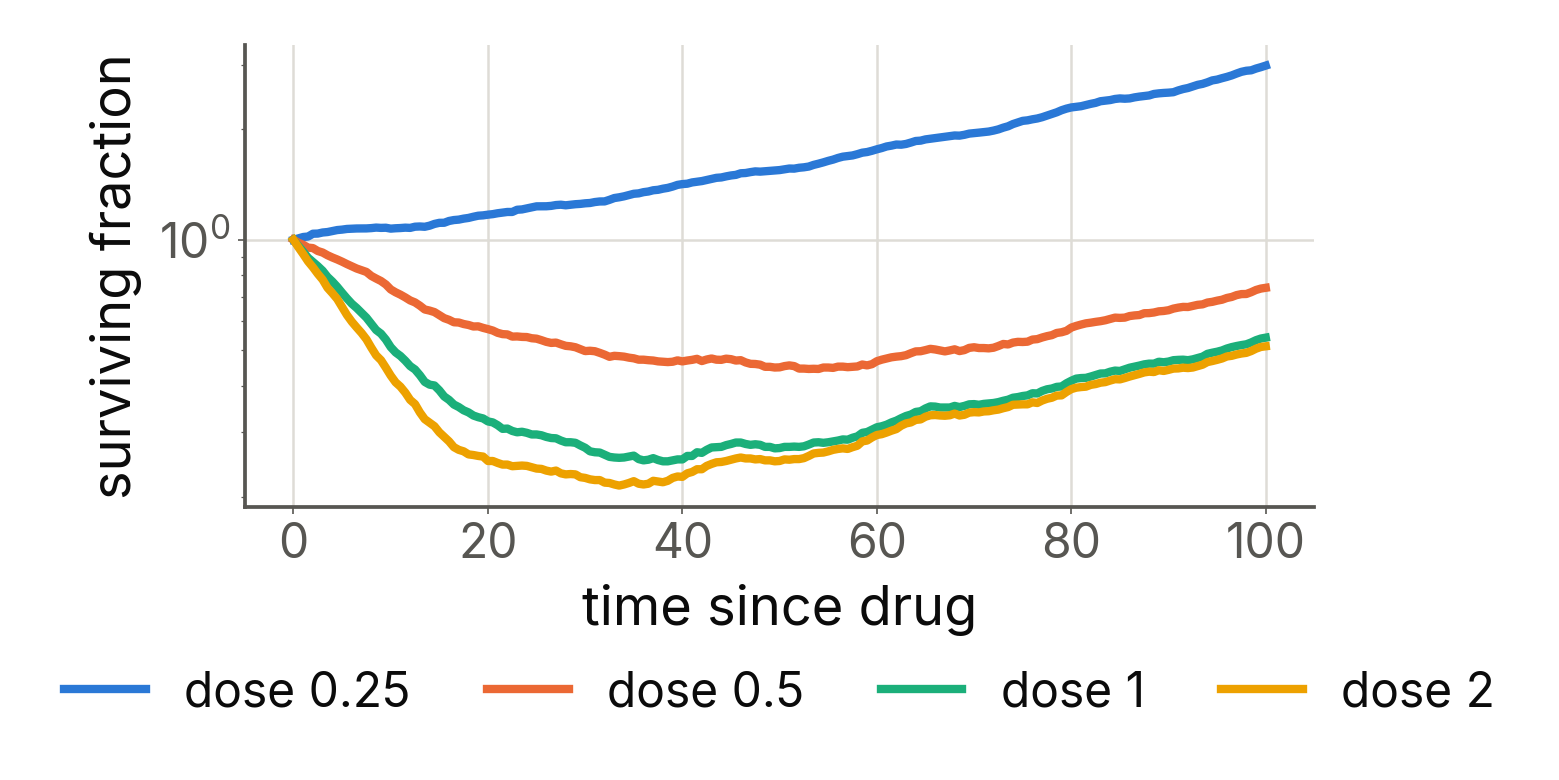
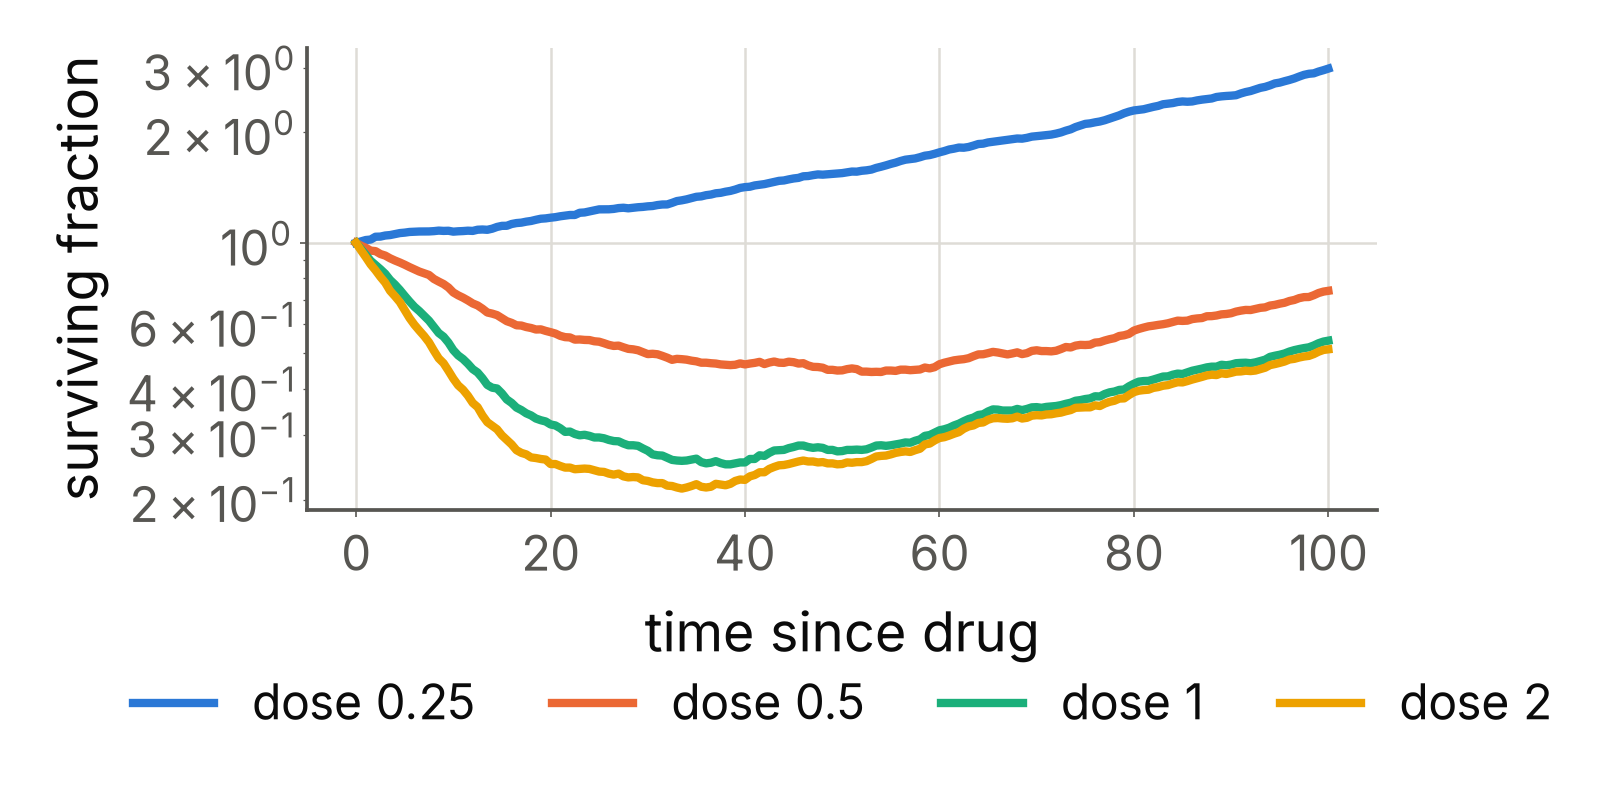
Bring the showcase video's claims in line with the revised paper
The video still made the pre-revision case. Three corrections, all of them
things the review changed:

The gap scene claimed that single-cell simulators model regulation "not
growth, division, or inheritance", so they cannot generate heritable states.
The revision audited exactly that kind of blanket statement and softened it:
stochastic simulators of growing and dividing cells do exist, and the closest
of them also infers parameters from lineage data. The gap is a missing
combination, not a missing mechanism, and the scene now says so.

Nothing in the video mentioned the exact-solution validation, which is the
largest thing the revision added. A new scene shows the constitutive model's
stationary law in both modes: a single lineage and a snapshot of the same
population obey different closed-form distributions, the simulated counts sit
on each, and the two are plainly distinguishable. Matching the right one is
what checks the growth-and-division layer.

The tolerance and schedule scenes were broadened where the paper is specific:
the persister arm reproduces the lineage signatures of tolerance rather than
persister biology whole (its survivors keep dividing), and the melanoma result
turns on two measurable properties of resistant cells rather than on the
mechanism in general.

The remaining charts are regenerated from the same output tables; their curves
are unchanged and only the log-axis minor tick labels differ. Ten scenes, 66 s.
[…]

Changed region(s): [[0.0308, 0.0615, 0.8621, 0.8308], [0.0308, 0.8615, 0.9852, 0.9231]]

diff --git a/video/src/Showcase.tsx b/video/src/Showcase.tsx
@@ -5,12 +5,12 @@ import {
   BLUE, ChartCard, Fonts, Headline, INK, INK2, Kicker, PAPER, Progress, Reveal, Scene, Sub, ORANGE, PURPLE, GREEN,
 } from "./theme";
 
-// Paced for reading: every scene holds its text well past the reveal. 1800 frames = 60 s at 30 fps.
+// Paced for reading: every scene holds its text well past the reveal. 1980 frames = 66 s at 30 fps.
 const D = {
-  hook: 150, gap: 168, mech: 216, memory: 210,
-  persist: 210, calib: 225, ident: 210, clinic: 225, close: 186,
+  hook: 150, gap: 198, mech: 204, exact: 216, memory: 192,
+  persist: 198, calib: 204, ident: 192, clinic: 210, close: 216,
 };
-const order = ["hook", "gap", "mech", "memory", "persist", "calib", "ident", "clinic", "close"] as const;
+const order = ["hook", "gap", "mech", "exact", "memory", "persist", "calib", "ident", "clinic", "close"] as const;
 export const TOTAL = order.reduce((a, k) => a + D[k], 0);
 
 const starts: Record<string, number> = {};
@@ -28,14 +28,16 @@ const Hook: React.FC = () => (
   </Scene>
 );
 
+// The gap is a missing combination, not a missing mechanism: simulators of growing and dividing
+// cells exist, and so do agent-based tumour models. Claiming otherwise would overstate the paper.
 const Gap: React.FC = () => (
   <Scene durationInFrames={D.gap}>
     <Reveal><Kicker color={PURPLE}>the gap</Kicker></Reveal>
     <Reveal delay={5}>
-      <Headline>Single-cell simulators model<br />regulation &mdash; not growth,<br />division, or inheritance.</Headline>
+      <Headline>The pieces exist.<br />Nothing holds them<br />together.</Headline>
     </Reveal>
     <Reveal delay={26}>
-      <Sub>So they cannot generate the heritable states that decide survival, which is exactly what the methods they benchmark are built to find.</Sub>
+      <Sub>Simulators of regulation leave out growth and inheritance. Simulators of dividing cells leave out the drug.</Sub>
     </Reveal>
   </Scene>
 );
@@ -45,7 +47,7 @@ const Mech: React.FC = () => (
     <Reveal><Kicker>Biomodelling.jl 2.0</Kicker></Reveal>
     <Reveal delay={4}><Headline>Stochastic kinetics inside<br />growing, dividing cells.</Headline></Reveal>
     <Reveal delay={18} style={{ marginTop: 26 }}><CellCycle duration={D.mech} /></Reveal>
-    <Reveal delay={150}>
+    <Reveal delay={120}>
       <Sub>Genes replicate mid-cycle. Molecules partition at division. Both daughters inherit the promoter state.</Sub>
     </Reveal>
   </Scene>
@@ -63,13 +65,21 @@ const chartScene = (
   </Scene>
 );
 
+// A single lineage and a snapshot of the same population obey different exact laws. Matching both
+// is the check that the growth-and-division layer is right, not merely plausible.
+const Exact = chartScene("exact", "validated", BLUE,
+  <>Exact where exactness<br />is checkable.</>,
+  "chart_exact.png",
+  <>Four solvable models. Simulated counts land on the closed-form law in each mode &mdash; and nowhere near the other one.</>,
+  440);
+
 const Memory = chartScene("memory", "what emerges", GREEN,
   <>Expression memory is not<br />imposed. It emerges.</>,
   "chart_memory.png",
   <>Correlation between relatives collapses once the promoter switches faster than the cell divides.</>);
 
 const Persist = chartScene("persist", "drug tolerance", ORANGE,
-  <>One resistance gene reproduces<br />persister biology.</>,
+  <>One resistance gene<br />reproduces the lineage<br />signatures of tolerance.</>,
   "chart_kill.png",
   <>Biphasic kill curves, and sisters share the fate of their lineage 4.8&times; more often than chance.</>);
 
@@ -87,7 +97,7 @@ const Ident = chartScene("ident", "honest inference", PURPLE,
 const Clinic = chartScene("clinic", "clinical schedules", ORANGE,
   <>Continuous or intermittent?<br />It depends on the cells.</>,
   "chart_schedules.png",
-  <>Reproduces the melanoma trial outcome once you set how resistant cells grow with and without drug.</>);
+  <>Two measurable properties decide it: how resistant cells grow without the drug, and how much the drug still slows them.</>);
 
 const Close: React.FC = () => {
   const f = useCurrentFrame();
@@ -103,7 +113,7 @@ const Close: React.FC = () => {
       </Reveal>
       <Reveal delay={20} style={{ marginTop: 40 }}>
         <div style={{ display: "flex", gap: 14, flexWrap: "wrap" }}>
-          {["open source", "MIT licence", "calibrated to published data", "white paper included"].map((c) => (
+          {["open source", "MIT licence", "validated against exact solutions", "calibrated to published data"].map((c) => (
             <div key={c} style={{
               fontSize: 25, fontWeight: 600, color: INK2, border: "1.6px solid #e0ded8",
               borderRadius: 999, padding: "11px 22px", background: "#fff",
@@ -129,6 +139,7 @@ export const Showcase: React.FC = () => (
     <Sequence from={starts.hook} durationInFrames={D.hook}><Hook /></Sequence>
     <Sequence from={starts.gap} durationInFrames={D.gap}><Gap /></Sequence>
     <Sequence from={starts.mech} durationInFrames={D.mech}><Mech /></Sequence>
+    <Sequence from={starts.exact} durationInFrames={D.exact}><Exact /></Sequence>
     <Sequence from={starts.memory} durationInFrames={D.memory}><Memory /></Sequence>
     <Sequence from={starts.persist} durationInFrames={D.persist}><Persist /></Sequence>
     <Sequence from={starts.calib} durationInFrames={D.calib}><Calib /></Sequence>

diff --git a/video/scripts/make_charts.py b/video/scripts/make_charts.py
@@ -89,3 +89,26 @@ ax.set_yticks(range(piv.shape[0])); ax.set_yticklabels([f"{int(r*100)}%" for r i
 ax.set_xlabel("memory (generations)"); ax.set_ylabel("cells resistant"); ax.grid(False)
 cb=fig.colorbar(im,ax=ax,fraction=0.046,pad=0.03); cb.set_label("error",fontsize=22); cb.ax.tick_params(labelsize=19)
 save(fig,"chart_ident.png")
+
+# Exact stationary laws of a growing, dividing population (Beentjes et al. 2020; Jia & Grima 2023).
+# A single lineage and a snapshot of the same population obey different laws, because a snapshot
+# over-weights cells that have just divided and so just lost half their molecules. Both are drawn
+# here against the simulated counts, which is the point: the layer has to get the mode right, not
+# just the shape.
+d=pd.read_csv(os.path.join(OUT,"fig9_counts.csv")); ex=pd.read_csv(os.path.join(OUT,"fig9_pmf.csv"))
+d=d[(d.case=="constitutive")&(d.kernel=="DirectSSA")]
+fig,ax=plt.subplots(figsize=FS)
+from matplotlib.lines import Line2D
+for i,(mode,lab,tx,ty) in enumerate((("lineage","single lineage",18.2,0.0505),
+                                     ("population","population snapshot",0.2,0.0905))):
+    e=ex[ex["mode"]==mode].sort_values("n")
+    ax.plot(e.n,e.exact,lw=4.0,color=C[i],zorder=2)
+    g=d[d["mode"]==mode].groupby("n").cells.sum(); g=g/g.sum()
+    ax.plot(g.index,g.values,ls="none",marker="o",ms=7.5,mfc="white",mew=2.2,mec=C[i],zorder=3)
+    ax.text(tx,ty,lab,color=C[i],fontsize=25,fontweight=600)
+ax.set_xlim(-0.5,34); ax.set_ylim(0,0.102)
+ax.set_xlabel("molecules per cell"); ax.set_ylabel("probability")
+ax.legend(handles=[Line2D([],[],lw=4.0,color=INK2,label="exact solution"),
+                   Line2D([],[],ls="none",marker="o",ms=7.5,mfc="white",mew=2.2,mec=INK2,label="simulated")],
+          ncol=2,loc="upper center",bbox_to_anchor=(0.5,-0.26),columnspacing=1.8,handlelength=1.7)
+save(fig,"chart_exact.png")

diff --git a/video/README.md b/video/README.md
@@ -1,6 +1,6 @@
 # LinkedIn showcase video
 
-A 60-second, 1080×1080 video for Biomodelling.jl 2.0, built with [Remotion](https://remotion.dev).
+A 66-second, 1080×1080 video for Biomodelling.jl 2.0, built with [Remotion](https://remotion.dev).
 Every chart in it is rendered from the simulation outputs in `paper/output/`, so the
 video shows the same numbers as the white paper.
 
@@ -30,7 +30,7 @@ npx remotion render Showcase out/biomodelling-showcase.mp4 \
 
 | File | What it holds |
 |---|---|
-| `src/Showcase.tsx` | the nine scenes and their timings |
+| `src/Showcase.tsx` | the ten scenes and their timings |
 | `src/theme.tsx` | palette, Inter faces, reveal/scene/chart primitives |
 | `src/Cells.tsx` | the two SVG animations (drug response, cell cycle) |
 | `public/chart_*.png` | charts rendered from real simulation output |
